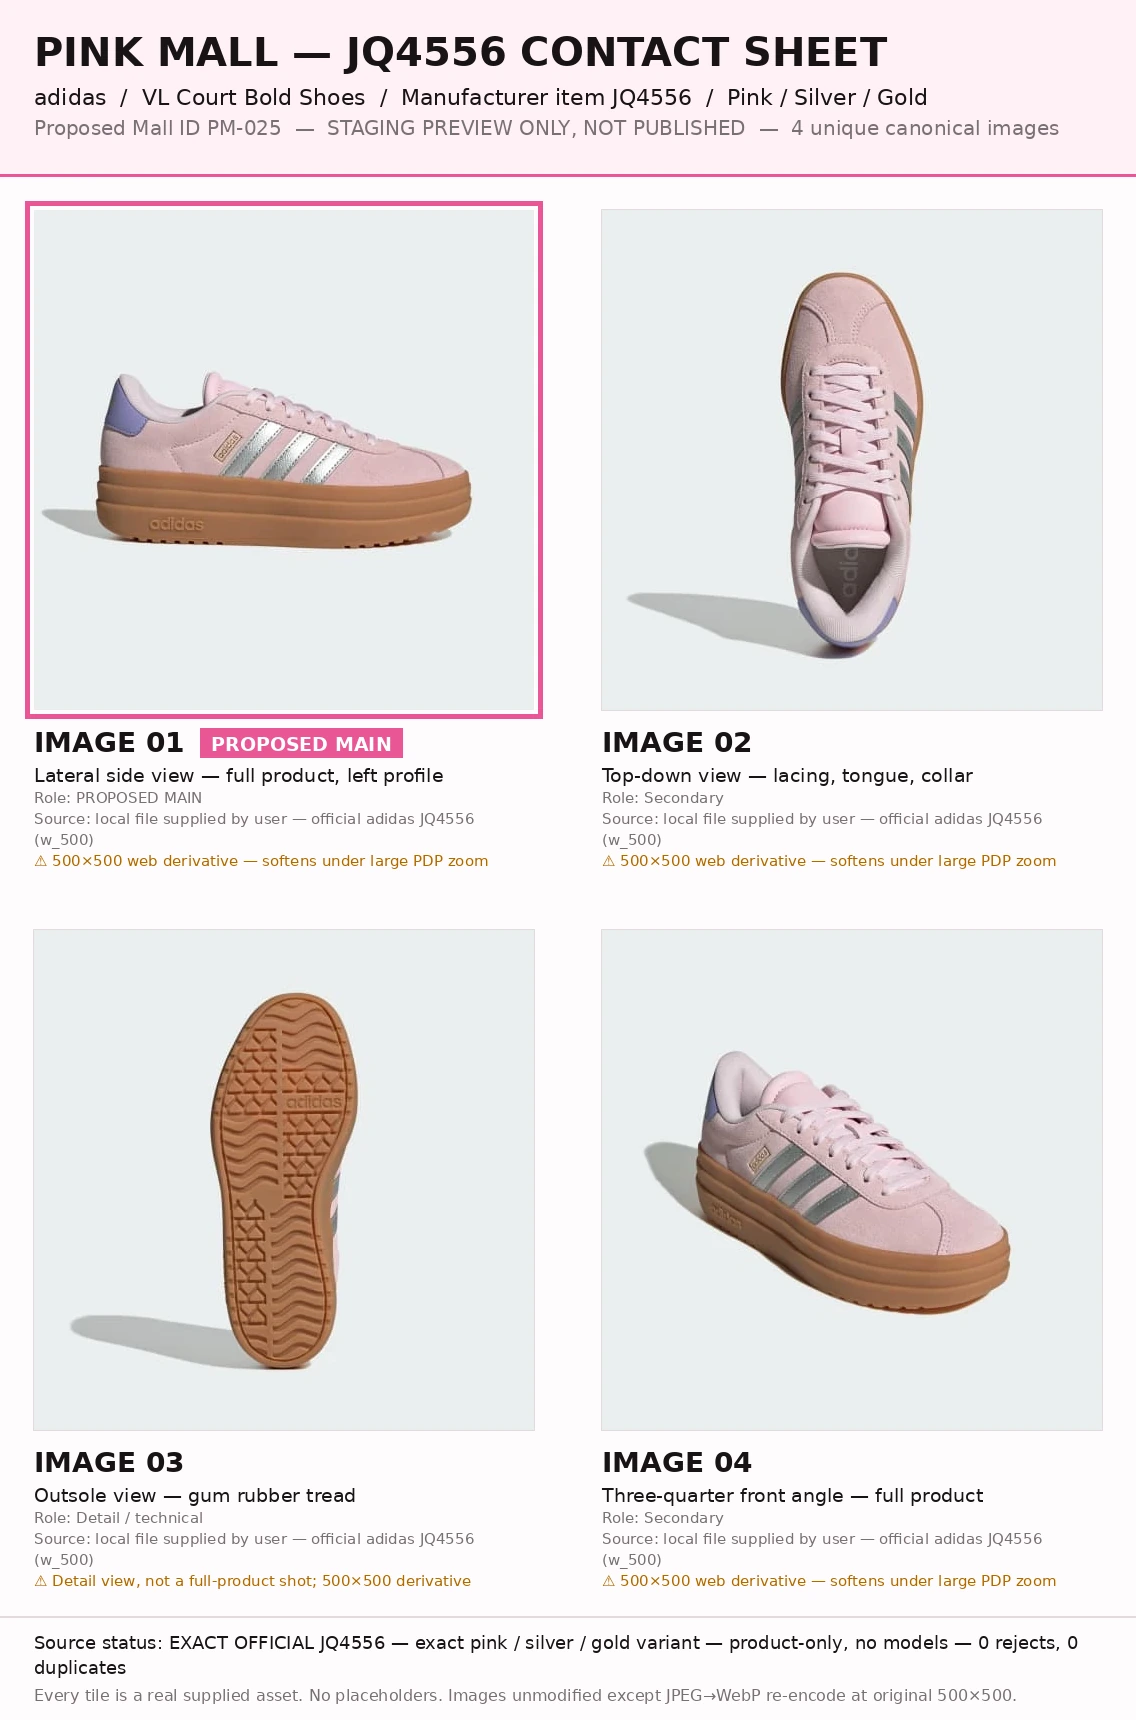
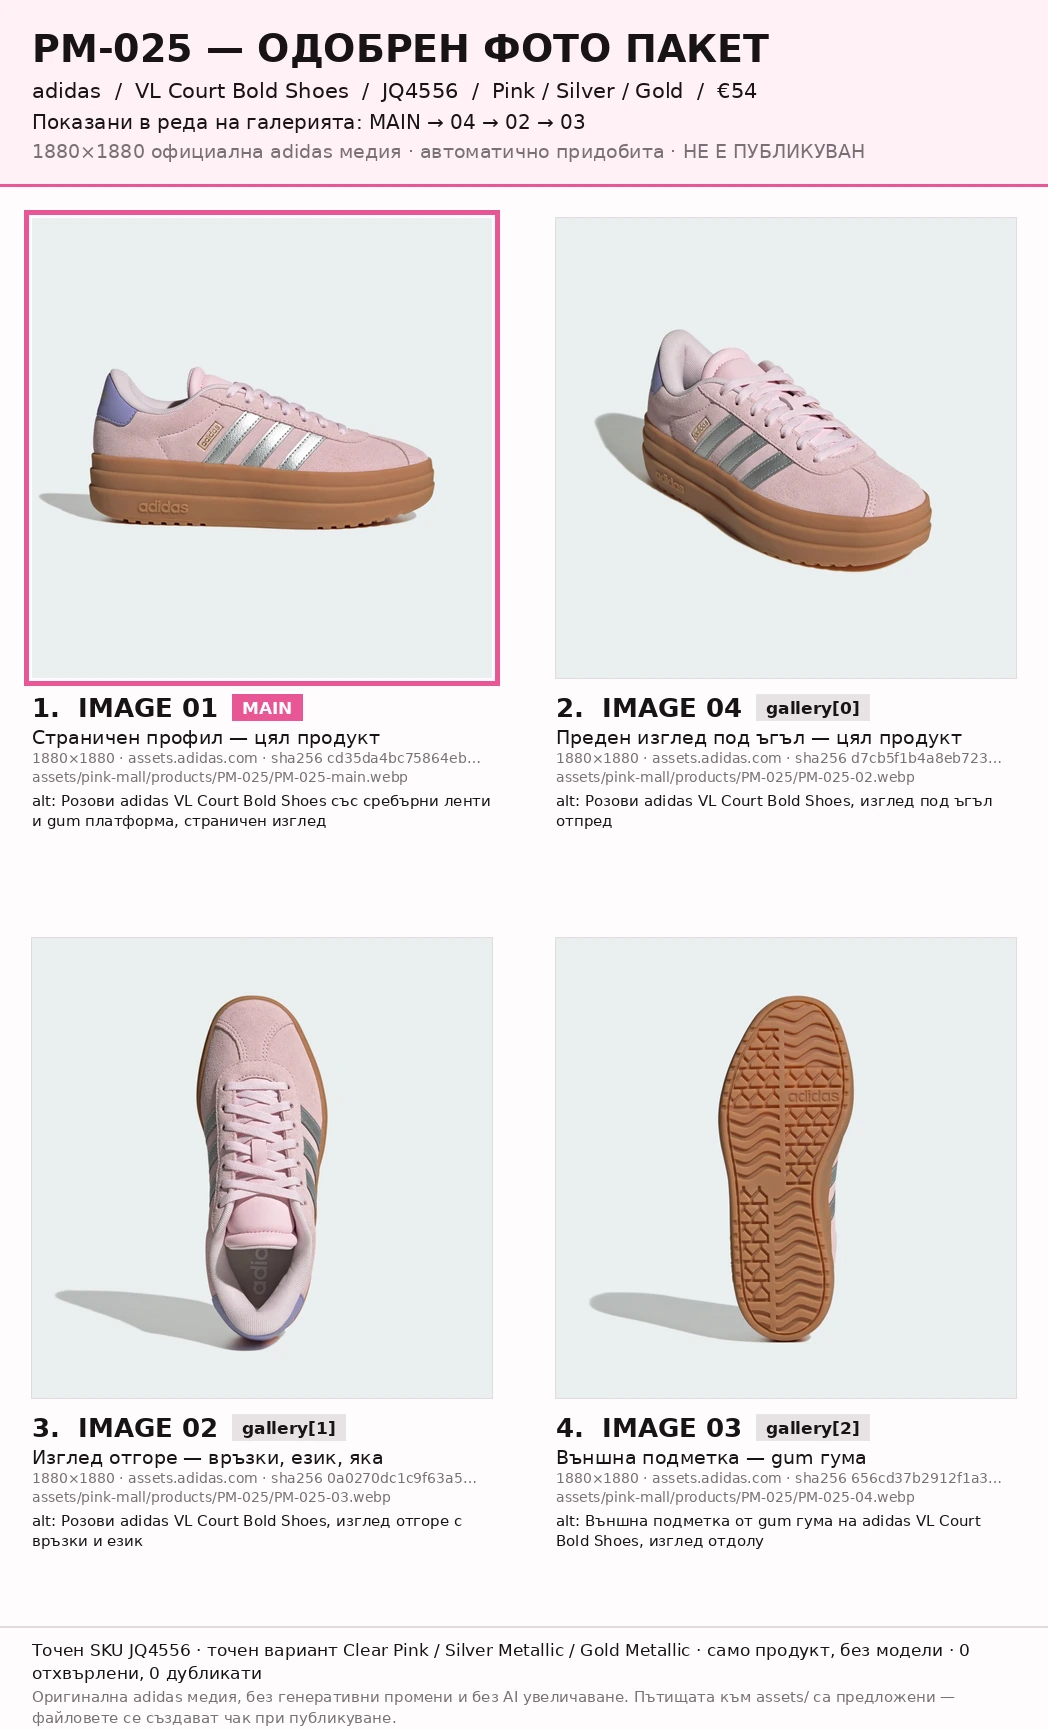
Approve PM-025 media upgrade to the 1880x1880 official set
Replaces the approved PM-025 photo package with the automatically acquired
1880x1880 exact official JQ4556 set, on explicit approval.

Preserved exactly as specified: MAIN = IMAGE 01; gallery order
01 -> 04 -> 02 -> 03; exact SKU and Clear Pink / Silver Metallic / Gold
Metallic variant; the Bulgarian authored imageAlt / galleryAlt[]; public
colour Pink / Silver / Gold; and every other product fact, the EUR 54 price
and the seven-size availability ladder. Only the image bytes and their
resolution changed.

  MAIN        IMAGE 01  cd35da4bc75864eb854c1735d69ef07c2fbf1a4d6335e975c3fef6be67fad7f4
  gallery[0]  IMAGE 04  d7cb5f1b4a8eb723e937bf765a574e7c45c9f88340f6e65c07d8928f3b328f94
  gallery[1]  IMAGE 02  0a0270dc1c9f63a5526c16db855c8d99c52774ebd80092476cd88505ad5bc96d
  gallery[2]  IMAGE 03  656cd37b2912f1a35136cc9c1dfa2685f9a9e3cba71ebf776052bba645be1bfb

Archive filenames keep their source image numbers rather than being
renumbered to gallery position, so that an approval decision naming
"IMAGE 04" stays meaningful.

The contact sheet is regenerated in gallery order — the order a reviewer is
actually approving — with each tile carrying its slot, view, hash, proposed
future path and authored Bulgarian alt text.

Withdraws the 500x500 resolution warning from the approval preview, the
archive README, PROJECT_STATE and CHECKPOINT_POLICY: the 1880x1880 set fully
replaces it and is adequate for card, PDP and zoom. The former bytes remain
recoverable through git history.
[…]

diff --git a/docs/pink-mall/checkpoints/PM025_APPROVAL_PREVIEW.md b/docs/pink-mall/checkpoints/PM025_APPROVAL_PREVIEW.md
@@ -2,8 +2,8 @@
 
 **STATUS: READY FOR APPROVAL — NOT PUBLISHED**
 
-Reconciled during the structure-cleanup + pre-publish-hardening task.
-PM-025 is not in `PINK_MALL_PRODUCTS`, and `JQ4556` appears nowhere in the
+Media package upgraded to the automatically acquired 1880×1880 exact official
+set. PM-025 is not in `PINK_MALL_PRODUCTS`, and `JQ4556` appears nowhere in the
 canonical `PINKMALL.html`.
 
 ---
@@ -25,9 +25,9 @@ canonical `PINKMALL.html`.
 | NEW | active for 14 days from first approved publication; `newUntil` not yet assigned |
 | Delivery | global — `4–7 работни дни` |
 
-Manufacturer color of record is `Clear Pink / Silver Metallic / Gold Metallic`,
-simplified for the Mall to `Pink / Silver / Gold` per the skill's naming rules.
-No fourth public color is claimed.
+Manufacturer colour of record is `Clear Pink / Silver Metallic / Gold Metallic`,
+simplified for the Mall per the skill's naming rules. No fourth public colour is
+claimed.
 
 ## 2. Sizes — resolved
 
@@ -47,30 +47,40 @@ labels are canonical strings; `37 1/3` is never normalised to `37`.
 
 ## 3. Media — approved set and order
 
-MAIN is **IMAGE 01**.
+MAIN is **IMAGE 01**. Gallery order **01 → 04 → 02 → 03**, unchanged.
 
-| Position | Source image | Role | Future path |
-|---|---|---|---|
-| MAIN | IMAGE 01 | lateral side view, full product | `assets/pink-mall/products/PM-025/PM-025-main.webp` |
-| gallery[0] | IMAGE 04 | three-quarter front angle | `assets/pink-mall/products/PM-025/PM-025-02.webp` |
-| gallery[1] | IMAGE 02 | top-down, lacing and collar | `assets/pink-mall/products/PM-025/PM-025-03.webp` |
-| gallery[2] | IMAGE 03 | outsole, gum rubber tread | `assets/pink-mall/products/PM-025/PM-025-04.webp` |
+| Position | Source image | Role | Size | Future path |
+|---|---|---|---|---|
+| MAIN | IMAGE 01 | lateral side profile, full product | 1880×1880 | `assets/pink-mall/products/PM-025/PM-025-main.webp` |
+| `gallery[0]` | IMAGE 04 | three-quarter front angle, full product | 1880×1880 | `assets/pink-mall/products/PM-025/PM-025-02.webp` |
+| `gallery[1]` | IMAGE 02 | top-down — lacing, tongue, collar | 1880×1880 | `assets/pink-mall/products/PM-025/PM-025-03.webp` |
+| `gallery[2]` | IMAGE 03 | outsole, gum rubber tread | 1880×1880 | `assets/pink-mall/products/PM-025/PM-025-04.webp` |
 
 Full-product frames lead; the technical outsole view is last. All four are
-exact-SKU, exact-variant, product-only, with no people. Rejects: 0.
-Duplicates: 0.
+exact-SKU, exact-variant, product-only, no people. Rejects: 0. Duplicates: 0.
 
-Archived originals and the contact sheet:
-`docs/pink-mall/approval-media/PM-025/`
+| Image | SHA-256 |
+|---|---|
[4 lines of base64/hex data omitted]
 
-Those paths are **proposed future** locations. The files do not exist under
-`assets/` and will not until publication.
+Archive: `docs/pink-mall/approval-media/PM-025/`
+Provenance: `docs/pink-mall/media-acquisition/JQ4556/result.json`
+
+Acquired automatically from `assets.adidas.com` — no manual download, rename or
+upload. Seeded at `w_500`, upgraded to `w_1880` by rewriting only the CDN
+transform segment, each upgrade verified perceptually against its 500px anchor.
+No AI upscaling, no generative edits.
+
+`assets/` paths are **proposed future** locations. Those files do not exist and
+will not until publication.
 
 ## 4. Alt text — canonical schema
 
 Bulgarian, matching the storefront language. Carried as `media.imageAlt` and
-`media.galleryAlt[]`, the schema defined in the skill's product contract, and
-now actually rendered by the engine.
+`media.galleryAlt[]`, and rendered by the engine.
 
 ```text
 imageAlt      — Розови adidas VL Court Bold Shoes със сребърни ленти и gum платформа, страничен изглед
@@ -151,16 +161,8 @@ skate-inspired, platform, gum sole, court
 
 ## 8. Warnings
 
-**One, non-blocking.** Source media is 500×500 web derivatives. Acceptable for
-approval and card preview; higher-resolution exact official duplicates are
-preferred before launch and full PDP display. Do not AI-upscale. Replacement
-bytes may be swapped in only after visual identity verification, preserving
-image number, order and MAIN.
-
-The per-image alt gap flagged in the previous revision is **resolved** — the
-engine now renders authored `imageAlt` / `galleryAlt[n]`, proven by runtime
-test with distinct Bulgarian strings across forward, backward and
-thumbnail-jump navigation.
+**None.** The 500×500 resolution warning is withdrawn: the 1880×1880 set fully
+replaces it and is adequate for card, PDP and zoom.
 
 ## 9. Approval preview
 
@@ -210,6 +212,7 @@ gum подметка. Court silhouette с повече attitude — full PINK MA
 
 PHOTO MATERIAL:
 docs/pink-mall/approval-media/PM-025/PINK_MALL_JQ4556_CONTACT_SHEET.webp
+4 images, 1880×1880, official adidas media, automatically acquired
 
 MAIN:
 IMAGE 01
@@ -217,11 +220,17 @@ IMAGE 01
 GALLERY ORDER:
 IMAGE 01 (MAIN) → IMAGE 04 → IMAGE 02 → IMAGE 03
 
+ALT TEXT:
+MAIN       — Розови adidas VL Court Bold Shoes със сребърни ленти и gum платформа, страничен изглед
+gallery[0] — Розови adidas VL Court Bold Shoes, изглед под ъгъл отпред
+gallery[1] — Розови adidas VL Court Bold Shoes, изглед отгоре с връзки и език
+gallery[2] — Външна подметка от gum гума на adidas VL Court Bold Shoes, изглед отдолу
+
 SOURCE STATUS:
 EXACT OFFICIAL JQ4556
 
 WARNINGS:
-500×500 source media; higher-resolution exact duplicates preferred before launch.
+none
 ```
 
 **Awaiting explicit instruction:** `APPROVE` / `CHANGE MAIN TO IMAGE 0X` /

diff --git a/docs/pink-mall/approval-media/PM-025/README.md b/docs/pink-mall/approval-media/PM-025/README.md
@@ -1,49 +1,56 @@
 # PM-025 — approved media archive (NOT PUBLISHED)
 
-Approved-but-unpublished canonical media for adidas `JQ4556`, proposed as
-Mall ID `PM-025`.
+Approved canonical media for adidas `JQ4556`, proposed as Mall ID `PM-025`.
 
-These files are archived here, not under `assets/pink-mall/products/PM-025/`,
-precisely because PM-025 is not published. They move to `assets/` only at
-publication, after explicit user approval.
+Archived here rather than under `assets/pink-mall/products/PM-025/` precisely
+because PM-025 is not published. The files move to `assets/` only at
+publication, after explicit approval.
 
-## Source originals — byte-exact, never modified
+## Source originals — 1880×1880, byte-exact, never modified
 
-| Image | Role | Bytes | SHA-256 |
+| Image | Gallery slot | Role / view | SHA-256 |
 |---|---|---|---|
[8 lines of base64/hex data omitted]
 
-All four are 500×500 JPEG, product-only, exact SKU and exact pink/silver/gold
-variant, supplied by the user from official adidas media.
+Filenames keep their **source image numbers** (`01`–`04`); the gallery order is
+`01 → 04 → 02 → 03`. The two are deliberately not renumbered to match, so that
+approval decisions referring to "IMAGE 04" stay meaningful.
+
+All four are 1880×1880 JPEG, product-only, exact SKU `JQ4556` and exact
+`Clear Pink / Silver Metallic / Gold Metallic` variant.
+
+## Provenance
+
+Acquired automatically from `assets.adidas.com` by the media acquisition
+pipeline — no manual download, rename or upload. Each asset was seeded at
+`w_500` and upgraded to `w_1880`: the CDN's own larger copy of the same
+photograph, with only the transform segment of the URL rewritten, and each
+upgrade verified perceptually against its 500px anchor before acceptance.
+
+No AI upscaling, no generative edits, no recolouring.
+
+Full provenance per image — source URL, anchor URL, discovery method,
+dimensions, MIME, SHA-256, dHash — is in
+`docs/pink-mall/media-acquisition/JQ4556/result.json`.
 
 ## Contact sheet
 
-`PINK_MALL_JQ4556_CONTACT_SHEET.webp` — 1136×1720, the approval instrument.
-Regenerated from the four originals; every tile is a real asset.
+`PINK_MALL_JQ4556_CONTACT_SHEET.webp` — the approval instrument, laid out in
+**gallery order** with the authored Bulgarian alt text on each tile.
 
-WebP previews are not archived: they are derivable from the originals by a
-lossless-quality WebP re-encode at the original 500×500, and archiving them
-would duplicate bytes that git already stores.
+WebP previews are not archived: they derive from the originals, and archiving
+them would duplicate bytes git already stores.
 
-## Quality warning — non-blocking
+## Resolution
 
-The originals are 500×500 web derivatives (`w_500`). Acceptable for approval
-and card preview. Higher-resolution exact duplicates are preferred before
-launch and full PDP display.
+No outstanding resolution warning. The previous 500×500 set has been fully
+replaced by this 1880×1880 set, which is adequate for card, PDP and zoom.
 
-Do not AI-upscale. Replacement bytes may only be swapped in after visual
-identity verification, and must preserve image number, order and MAIN.
+## History
 
-## Approved gallery order
-
-```text
-IMAGE 01 — MAIN
-IMAGE 04 — three-quarter front
-IMAGE 02 — top-down
-IMAGE 03 — outsole / detail
-```
-
-See `docs/pink-mall/checkpoints/PM025_APPROVAL_PREVIEW.md` for the full package.
+The earlier approved package was the 500×500 `w_500` derivatives, carried as a
+non-blocking quality warning. Those bytes remain recoverable through git
+history; they are not the approved set any more.

diff --git a/docs/pink-mall/PROJECT_STATE.md b/docs/pink-mall/PROJECT_STATE.md
@@ -37,47 +37,36 @@ canonical build by hash before treating it as canonical.
 |---|---|
 | AUTOMATION | PASS — `tools/media_acquisition/`, `.github/workflows/media-acquisition.yml` |
 | SELF-TEST | PASS — `python tools/media_acquisition/selftest.py`, 12/12 guards |
-| JQ4556 PILOT | **PASS** — 4 exact official images, 1880×1880, zero manual preparation |
+| JQ4556 PILOT | PASS — 4 exact official images, 1880×1880, zero manual preparation |
 
-Acquired media: `docs/pink-mall/media-acquisition/JQ4556/`
-
-| Image | Role | Size | SHA-256 |
-|---|---|---|---|
[4 lines of base64/hex data omitted]
+Provenance: `docs/pink-mall/media-acquisition/JQ4556/result.json`
 
 All four came from `assets.adidas.com`, seeded at `w_500` and upgraded to
 `w_1880` — the CDN's own larger copy of the same photograph, each verified
 perceptually against its 500px anchor. No AI upscaling. SKU present in every
-asset URL. Visually confirmed as the exact pink / silver / gold variant,
-product-only.
-
-Two runs produced byte-identical images; only timestamps and run id differ,
-so the pipeline is idempotent.
+asset URL. Three runs; images byte-identical across runs, so the pipeline is
+idempotent.
 
 **Known limitation:** adidas product *pages* return 403 to the GitHub runner
-(bot protection on datacenter IPs), and the courir fallback URL 404s. Page
+(bot protection on datacenter IPs) and the courir fallback URL 404s. Page
 scraping therefore contributed nothing; all four candidates came from
 research-derived CDN seeds in the request manifest. For a SKU whose asset URLs
 are not already known, discovery would need a different route.
 
-## Proposed PM-025 media upgrade — needs APPROVE
+## PM-025 media
 
-The approved PM-025 set is the 500×500 archive under
-`docs/pink-mall/approval-media/PM-025/`. The newly acquired set is the same
-four views at 1880×1880, which resolves the standing resolution warning.
+| | |
+|---|---|
+| APPROVED SET | 1880×1880, four exact official images |
+| MAIN | IMAGE 01 — lateral side profile |
+| GALLERY ORDER | 01 → 04 → 02 → 03 |
+| ARCHIVE | `docs/pink-mall/approval-media/PM-025/` |
+| RESOLUTION WARNING | withdrawn — the 500×500 set has been fully replaced |
+| PUBLISHED | no |
 
-This is **not** applied. Per the onboarding skill, a photo-set change on an
-approved product requires explicit approval. Say `APPROVE MEDIA UPGRADE PM-025`
-to swap the approval package to the 1880px set, keeping MAIN and gallery order.
-
-## Known non-blocking issue
-
-Staged PM-025 product media is 500×500 web-derivative resolution. Acceptable
-for approval and card preview; higher-resolution exact official duplicates are
-preferred before launch and full PDP display. Do not AI-upscale.
+The media upgrade was approved on 2026-08-25. Product facts, price, sizes,
+colour, copy, tags, alt text, MAIN and gallery order are all unchanged; only
+the image bytes and their resolution changed.
 
 ## Next step
 

diff --git a/docs/pink-mall/CHECKPOINT_POLICY.md b/docs/pink-mall/CHECKPOINT_POLICY.md
@@ -78,12 +78,10 @@ Approved JQ4556 media, restored byte-exact and hash-verified:
 
 ## Known open items
 
-Carried forward; see `PROJECT_STATE.md` for live status.
-
-1. Staged PM-025 images are 500×500 `w_500` web derivatives — soft at large PDP
-   zoom. Higher-resolution exact duplicates preferred before launch. Do not
-   AI-upscale.
+None. See `PROJECT_STATE.md` for live status.
 
 Resolved since this policy was written: the per-image alt gap (the engine now
-renders authored `media.imageAlt` / `media.galleryAlt[]`), and the calibration
-fixture (removed from the canonical build).
+renders authored `media.imageAlt` / `media.galleryAlt[]`), the calibration
+fixture (removed from the canonical build), and PM-025 media resolution (the
+500×500 derivatives were replaced by the automatically acquired 1880×1880
+official set).
